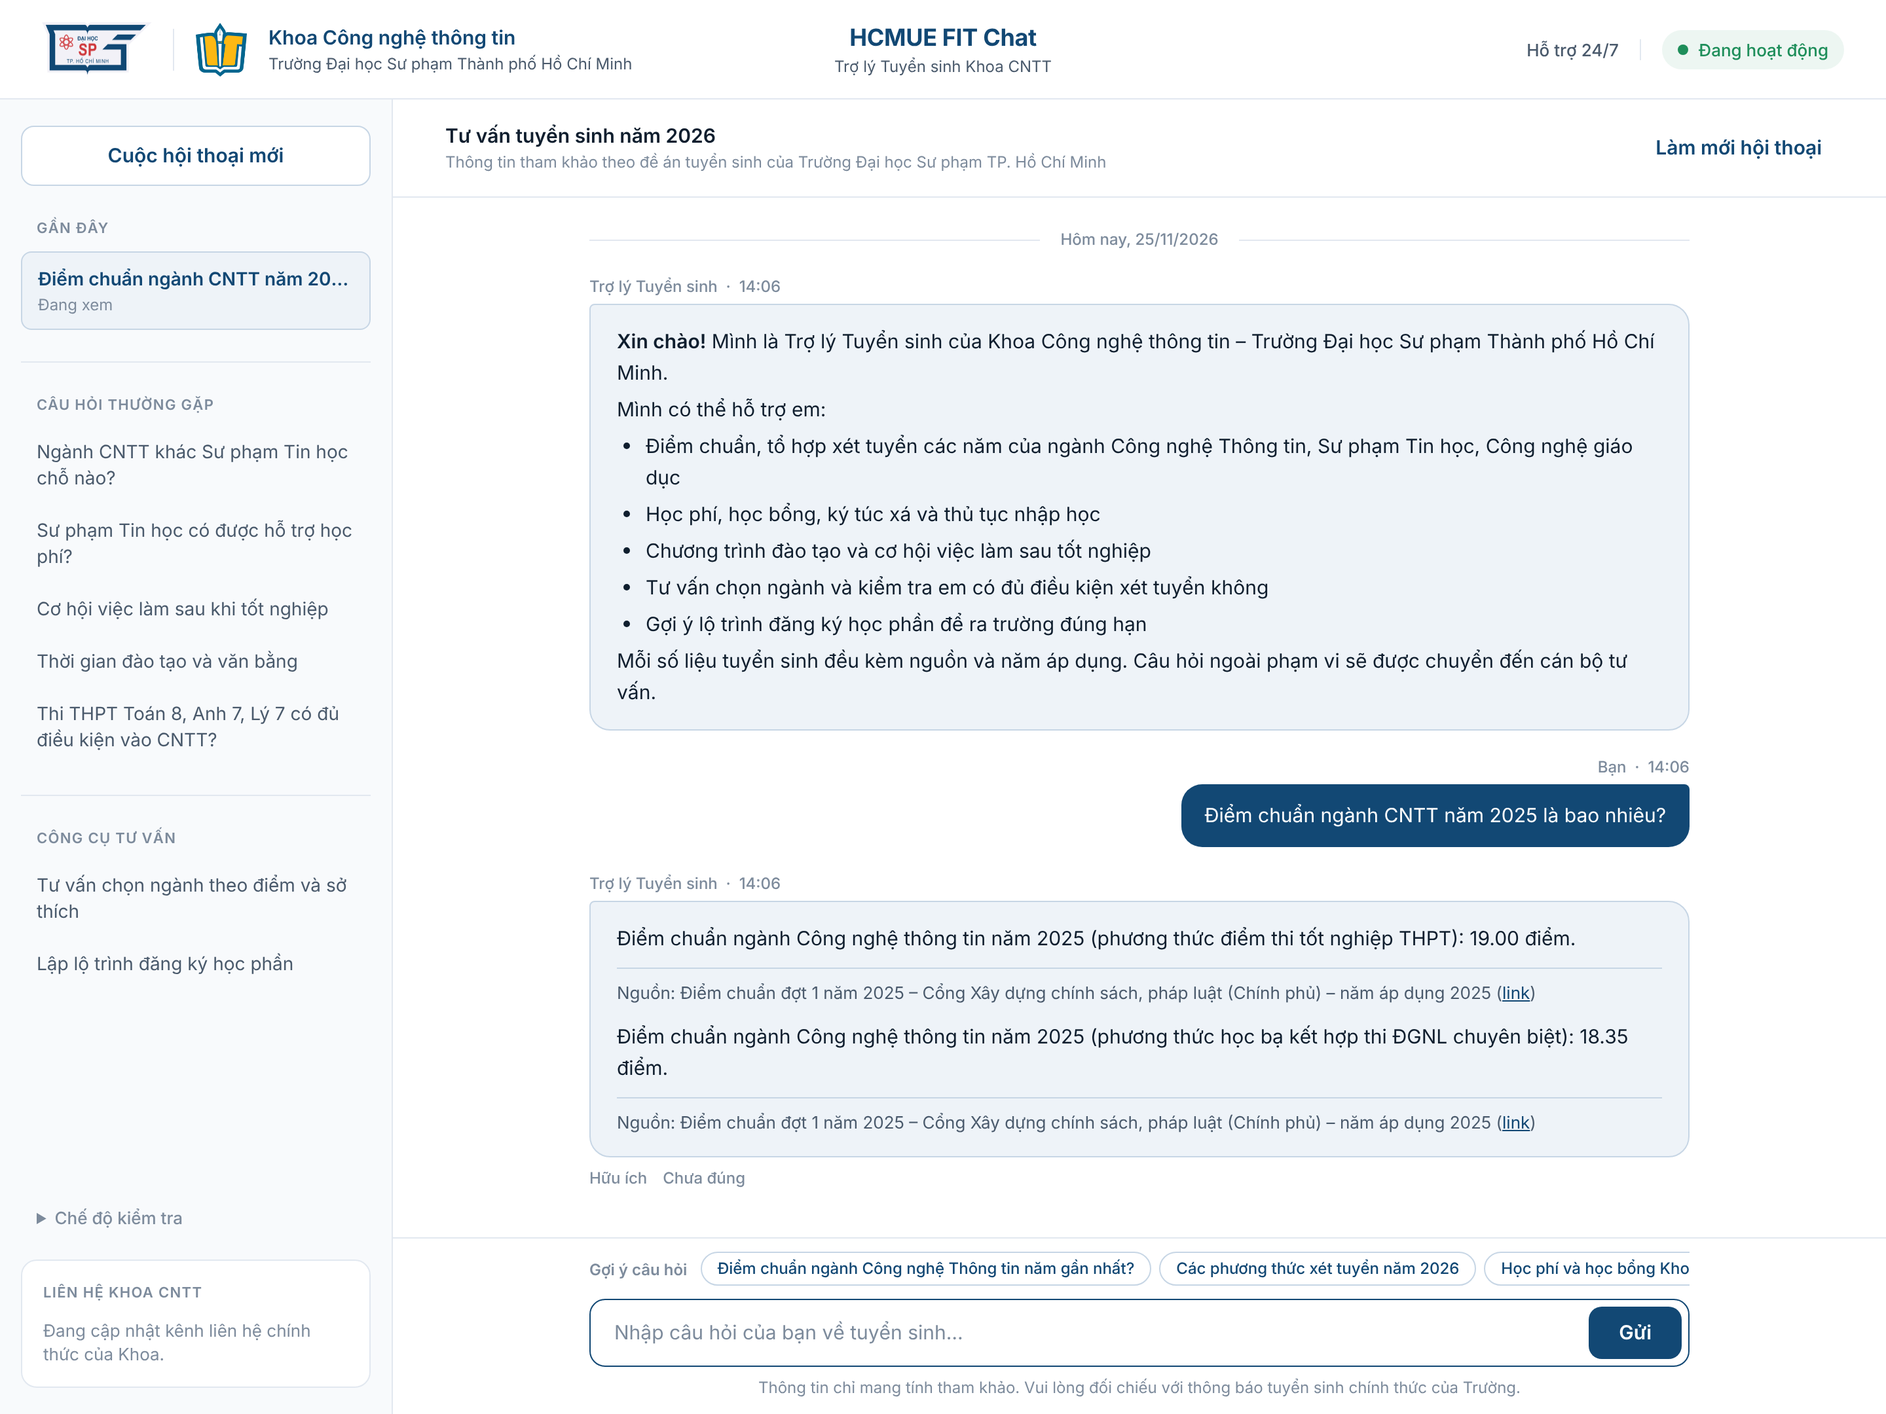
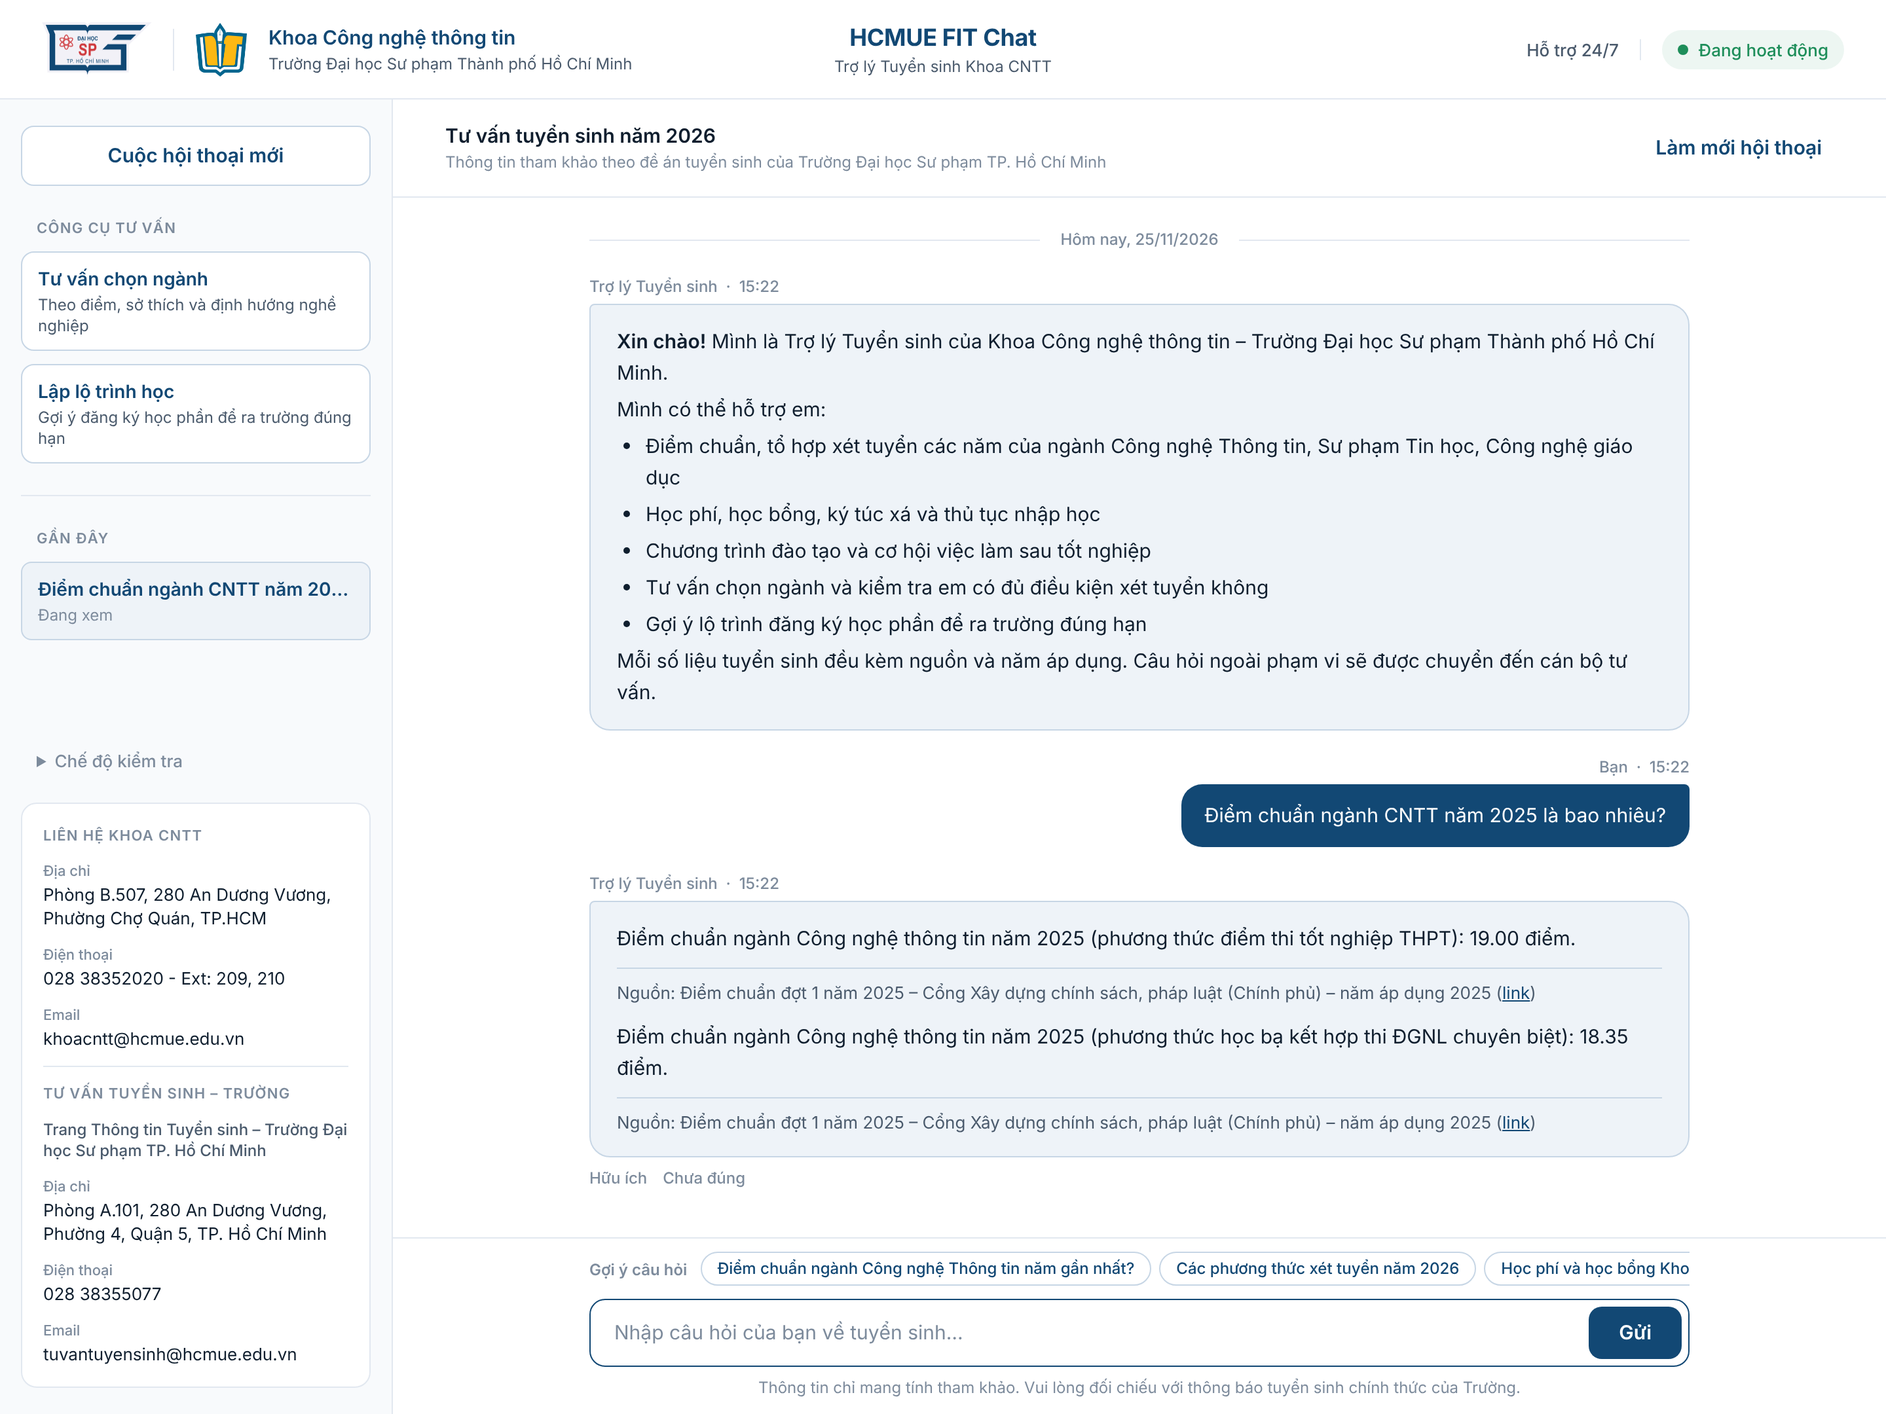
Thêm liên hệ Khoa CNTT và Tư vấn tuyển sinh của Trường, bỏ mục câu hỏi thường gặp, đưa công cụ tư vấn lên đầu thanh bên
Claude-Session: https://claude.ai/code/session_018JoVY2yuYEbWbmjCXAkQAX

diff --git a/templates/index.html b/templates/index.html
@@ -41,27 +41,24 @@
     <button class="btn btn-secondary btn-block" type="button" data-action="new">Cuộc hội thoại mới</button>
 
     <section class="side-section">
+      <p class="section-label">CÔNG CỤ TƯ VẤN</p>
+      <button class="tool-btn" type="button" data-dialog="dlg-tu-van">
+        <span class="tool-title">Tư vấn chọn ngành</span>
+        <span class="tool-sub">Theo điểm, sở thích và định hướng nghề nghiệp</span>
+      </button>
+      <button class="tool-btn" type="button" data-dialog="dlg-lo-trinh">
+        <span class="tool-title">Lập lộ trình học</span>
+        <span class="tool-sub">Gợi ý đăng ký học phần để ra trường đúng hạn</span>
+      </button>
+    </section>
+
+    <hr class="divider-h">
+
+    <section class="side-section">
       <p class="section-label">GẦN ĐÂY</p>
       <div id="recent" class="recent-list">
         <p class="empty-note">Chưa có cuộc hội thoại nào.</p>
       </div>
-    </section>
-
-    <hr class="divider-h">
-
-    <section class="side-section">
-      <p class="section-label">CÂU HỎI THƯỜNG GẶP</p>
-      {% for nhan, cau in faq %}
-      <button class="faq-item" type="button" data-query="{{ cau }}">{{ nhan }}</button>
-      {% endfor %}
-    </section>
-
-    <hr class="divider-h">
-
-    <section class="side-section">
-      <p class="section-label">CÔNG CỤ TƯ VẤN</p>
-      <button class="faq-item" type="button" data-dialog="dlg-tu-van">Tư vấn chọn ngành theo điểm và sở thích</button>
-      <button class="faq-item" type="button" data-dialog="dlg-lo-trinh">Lập lộ trình đăng ký học phần</button>
     </section>
 
     <div class="spacer"></div>
@@ -76,13 +73,18 @@
     </details>
 
     <div class="contact">
-      <p class="section-label tight">LIÊN HỆ KHOA CNTT</p>
-      {% for nhan, gia_tri in lien_he %}
+      {% for ten, dong in lien_he %}
+      {% if not loop.first %}<hr class="divider-h">{% endif %}
+      <p class="section-label tight">{{ 'LIÊN HỆ KHOA CNTT' if loop.first else 'TƯ VẤN TUYỂN SINH – TRƯỜNG' }}</p>
+      {% if not loop.first %}<p class="contact-org">{{ ten }}</p>{% endif %}
+      {% for nhan, gia_tri in dong %}
       <div class="contact-item">
         <p class="contact-label">{{ nhan }}</p>
         <p class="contact-value">{{ gia_tri }}</p>
       </div>
+      {% endfor %}
       {% else %}
+      <p class="section-label tight">LIÊN HỆ KHOA CNTT</p>
       <p class="contact-value muted">Đang cập nhật kênh liên hệ chính thức của Khoa.</p>
       {% endfor %}
     </div>
@@ -140,7 +142,7 @@
   <form method="dialog" class="dialog-form" id="form-tu-van">
     <div class="dialog-head">
       <p class="dialog-title">Tư vấn chọn ngành</p>
-      <p class="dialog-sub">Chức năng 2 – suy diễn tiến gợi ý ngành; chọn thêm một ngành để kiểm tra đủ điều kiện bằng suy diễn lùi.</p>
+      <p class="dialog-sub">Nhập điểm, sở thích và định hướng nghề nghiệp để nhận gợi ý ngành phù hợp; có thể chọn thêm một ngành để kiểm tra em có đủ điều kiện xét tuyển không.</p>
     </div>
     <fieldset class="field">
       <legend>Phương thức xét tuyển</legend>
@@ -200,7 +202,7 @@
   <form method="dialog" class="dialog-form" id="form-lo-trinh">
     <div class="dialog-head">
       <p class="dialog-title">Lập lộ trình đăng ký học phần</p>
-      <p class="dialog-sub">Chức năng 1 – hệ thống tự chọn thuật toán (A*, dự phòng quay lui – nhánh cận) để tìm lộ trình ít học kỳ nhất.</p>
+      <p class="dialog-sub">Chọn học kỳ sắp đăng ký và tình trạng từng học phần; hệ thống tìm lộ trình ít học kỳ nhất để hoàn thành chương trình.</p>
     </div>
     <div class="grid-2">
       <label class="mini">Học kỳ sắp đăng ký (1 = năm nhất)<input type="number" name="hoc_ky" min="1" max="16" value="1" required></label>

diff --git a/static/css/style.css b/static/css/style.css
@@ -99,11 +99,6 @@ button, input, select, textarea { font: inherit; color: inherit; }
 .conv-item .conv-time { font-size: 12px; line-height: 16px; color: var(--text-tertiary); }
 .conv-item.active { background: var(--primary-subtle); border-color: var(--primary-border); }
 .conv-item.active .conv-title { font-weight: 600; color: var(--primary); }
-.faq-item {
-  display: block; width: 100%; text-align: left; padding: 8px 12px; border-radius: 6px; border: 0; background: none;
-  font-size: 14px; line-height: 20px; color: var(--text-secondary); cursor: pointer;
-}
-.faq-item:hover { background: var(--primary-subtle); color: var(--primary); }
 .spacer { flex: 1 0 0; min-height: 0; }
 .check-mode { font-size: 13px; color: var(--text-secondary); padding: 0 12px; }
 .check-mode summary { cursor: pointer; font-weight: 500; color: var(--text-tertiary); }
@@ -296,3 +291,15 @@ fieldset.field { display: block; }
 fieldset.field legend { margin-bottom: 4px; }
 fieldset.field .choice { margin: 6px 18px 0 0; }
 .bubble th, .bubble td { min-width: 2.6em; }
+
+/* Công cụ tư vấn: nút rõ ràng ở đầu thanh bên */
+.tool-btn {
+  display: flex; flex-direction: column; gap: 2px; width: 100%; text-align: left; cursor: pointer;
+  padding: 10px 12px; border-radius: 10px; border: 1px solid var(--primary-border); background: var(--surface);
+}
+.tool-btn + .tool-btn { margin-top: 6px; }
+.tool-btn:hover { background: var(--primary-subtle); border-color: var(--primary); }
+.tool-title { font-weight: 600; font-size: 14px; line-height: 20px; color: var(--primary); }
+.tool-sub { font-size: 12px; line-height: 16px; color: var(--text-secondary); }
+.contact-org { font-size: 12px; line-height: 16px; color: var(--text-secondary); font-weight: 500; }
+.bubble ul + p { margin-top: 10px; }

diff --git a/app.py b/app.py
@@ -36,21 +36,13 @@ from src.web.markdown_lite import to_html  # noqa: E402
 
 ROOT = Path(__file__).resolve().parent
 
-# Câu gợi ý / câu hỏi thường gặp: chỉ giữ câu đã kiểm tra chatbot trả lời được (tests/test_web.py).
+# Câu hỏi gợi ý: chỉ giữ câu đã kiểm tra chatbot trả lời được (tests/test_web.py).
 GOI_Y = [
     "Điểm chuẩn ngành Công nghệ Thông tin năm gần nhất?",
     "Các phương thức xét tuyển năm 2026",
     "Học phí và học bổng Khoa CNTT",
     "Em nên chọn ngành nào của Khoa?",
     "Lập lộ trình học cho tân sinh viên",
-]
-CAU_HOI_THUONG_GAP = [
-    ("Ngành CNTT khác Sư phạm Tin học chỗ nào?", "CNTT khác Sư phạm Tin học chỗ nào?"),
-    ("Sư phạm Tin học có được hỗ trợ học phí?", "Sư phạm Tin học có được hỗ trợ học phí?"),
-    ("Cơ hội việc làm sau khi tốt nghiệp", "Cơ hội việc làm sau khi tốt nghiệp"),
-    ("Thời gian đào tạo và văn bằng", "Thời gian đào tạo và văn bằng"),
-    ("Thi THPT Toán 8, Anh 7, Lý 7 có đủ điều kiện vào CNTT?",
-     "Em thi THPT Toán 8, Anh 7, Lý 7, KV2 có đủ điều kiện vào CNTT không?"),
 ]
 
 MAX_HOI_THOAI = 30          # mỗi trình duyệt giữ tối đa 30 cuộc hội thoại (bộ nhớ của máy chủ)
@@ -159,14 +151,10 @@ def create_app(classifier=None, log_dir: Path = LOG_DIR) -> Flask:
 
     @app.get("/")
     def trang_chu():
-        lh = kb.meta.get("lien_he_tu_van", {})
-        lien_he = [(nhan, lh[k]) for k, nhan in (("dia_chi", "Địa chỉ"), ("email", "Email"),
-                                                 ("dien_thoai", "Điện thoại"), ("fanpage", "Fanpage"))
-                   if lh.get(k) and not str(lh[k]).startswith("<")]
         ds_hp = sorted(engine.courses.values(), key=lambda h: h.stt)
         return render_template(
             "index.html", nam=NAM, khoa=kb.meta.get("khoa", "Khoa Công nghệ Thông tin"),
-            truong=kb.meta.get("truong", ""), goi_y=GOI_Y, faq=CAU_HOI_THUONG_GAP, lien_he=lien_he,
+            truong=kb.meta.get("truong", ""), goi_y=GOI_Y, lien_he=kb.lien_he(),
             hom_nay=dt.date.today().strftime("%d/%m/%Y"), tau=tau_mac_dinh, ten_mo_hinh=clf.name,
             mon=[(m, TEN_MON[m]) for m in MON], mon_hb2=[(m, TEN_MON[m]) for m in MON_HB2],
             so_thich=[(k, TEN_SO_THICH[k]) for k in SO_THICH], dinh_huong=[(k, TEN_DINH_HUONG[k]) for k in DINH_HUONG],

diff --git a/tests/test_web.py b/tests/test_web.py
@@ -5,7 +5,7 @@ from pathlib import Path
 import pandas as pd
 import pytest
 
-from app import CAU_HOI_THUONG_GAP, GOI_Y, create_app
+from app import GOI_Y, create_app
 from src.nlu.classifier import KeywordClassifier, load_classifier
 from src.web.markdown_lite import to_html
 
@@ -28,10 +28,12 @@ def _chat(c, text, cid=None, client_id="test"):
 def test_trang_chu_theo_figma(client):
     html = client.get("/").get_data(as_text=True)
     for s in ["HCMUE FIT Chat", "Trợ lý Tuyển sinh Khoa CNTT", "Cuộc hội thoại mới", "GẦN ĐÂY",
-              "CÂU HỎI THƯỜNG GẶP", "LIÊN HỆ KHOA CNTT", "Gợi ý câu hỏi", "Làm mới hội thoại", "Gửi",
+              "CÔNG CỤ TƯ VẤN", "LIÊN HỆ KHOA CNTT", "khoacntt@hcmue.edu.vn",
+              "TƯ VẤN TUYỂN SINH – TRƯỜNG", "tuvantuyensinh@hcmue.edu.vn", "Gợi ý câu hỏi", "Làm mới hội thoại", "Gửi",
               "logo_hcmue.png", "logo_khoa_cntt.png"]:
         assert s in html
-    assert "<script>alert" not in html
+    assert "<script>alert" not in html and "CÂU HỎI THƯỜNG GẶP" not in html
+    assert html.index("CÔNG CỤ TƯ VẤN") < html.index("GẦN ĐÂY")      # công cụ tư vấn ở đầu thanh bên
 
 
 def test_chat_so_lieu_co_nguon_va_nam(client):
@@ -100,11 +102,11 @@ def test_trang_thai(client):
 
 @pytest.mark.skipif(not (ROOT / "models" / "intent_model.keras").exists(), reason="chưa có mô hình")
 def test_cau_goi_y_tren_giao_dien_deu_tra_loi_duoc(tmp_path):
-    """Mọi câu gợi ý / câu hỏi thường gặp hiển thị trên giao diện phải được trả lời bằng mô hình Keras."""
+    """Mọi câu hỏi gợi ý hiển thị trên giao diện phải được trả lời bằng mô hình Keras."""
     pytest.importorskip("tensorflow")
     pytest.importorskip("underthesea")
     c = create_app(load_classifier(backend="keras"), log_dir=tmp_path).test_client()
-    for cau in GOI_Y + [q for _, q in CAU_HOI_THUONG_GAP]:
+    for cau in GOI_Y:
         j = _chat(c, cau, client_id=cau)
         assert not j["reply"]["handoff"], cau
 

diff --git a/src/chatbot/kb.py b/src/chatbot/kb.py
@@ -49,13 +49,26 @@ class KnowledgeBase:
         res.facts = [f for group in latest.values() for f in group]
         return res
 
+    def lien_he(self) -> list[tuple[str, list[tuple[str, str]]]]:
+        """Các kênh liên hệ (Khoa, tuyển sinh của Trường): [(tên đơn vị, [(nhãn, giá trị), …]), …].
+
+        Bỏ qua giá trị còn để mẫu dạng "<...>". Dùng chung cho thanh bên web và câu chuyển cán bộ.
+        """
+        out = []
+        for khoa, mac_dinh in (("lien_he_tu_van", self.meta.get("khoa", "Khoa")),
+                               ("lien_he_tuyen_sinh", "Tư vấn tuyển sinh của Trường")):
+            c = self.meta.get(khoa, {})
+            dong = [(nhan, str(c[k])) for k, nhan in (("dia_chi", "Địa chỉ"), ("dien_thoai", "Điện thoại"),
+                                                      ("email", "Email"), ("fanpage", "Fanpage"))
+                    if c.get(k) and not str(c[k]).startswith("<")]
+            if dong:
+                out.append((c.get("ten") or mac_dinh, dong))
+        return out
+
     def contact_text(self) -> str:
-        """Kênh liên hệ thật của Khoa; bỏ qua giá trị còn để mẫu dạng "<...>" trong knowledge_base.json."""
-        c = self.meta.get("lien_he_tu_van", {})
-        dong = [f"- {nhan}: {c[k]}" for k, nhan in (("email", "Email"), ("dien_thoai", "Điện thoại"),
-                                                    ("fanpage", "Fanpage"))
-                if c.get(k) and not str(c[k]).startswith("<")]
-        return "\n".join(dong) or "- (Nhóm chưa cập nhật kênh liên hệ của Khoa trong data/knowledge_base.json)"
+        """Kênh liên hệ dạng markdown cho câu trả lời chuyển cán bộ."""
+        nhom = [f"**{ten}**\n" + "\n".join(f"- {nhan}: {gt}" for nhan, gt in dong) for ten, dong in self.lien_he()]
+        return "\n\n".join(nhom) or "- (Nhóm chưa cập nhật kênh liên hệ trong data/knowledge_base.json)"
 
 
 def cite(fact: dict) -> str:

diff --git a/tests/test_c3_c4.py b/tests/test_c3_c4.py
@@ -187,8 +187,15 @@ def test_so_sanh_hai_nganh_khong_mo_luong(tmp_path, kb):
     assert s.active_flow is None and "Sư phạm Tin học" in r.text and "Công nghệ thông tin" in r.text
 
 
-def test_lien_he_bo_qua_gia_tri_mau(kb):
-    assert "<" not in kb.contact_text()
+def test_lien_he_khoa_va_truong(kb):
+    t = kb.contact_text()
+    assert "<" not in t and "khoacntt@hcmue.edu.vn" in t and "tuvantuyensinh@hcmue.edu.vn" in t
+    assert [ten for ten, _ in kb.lien_he()][0] == "Khoa Công nghệ thông tin"
+
+
+def test_chuyen_can_bo_co_lien_he(engine):
+    r = engine.respond("hôm nay trời có mưa không", DialogueState())
+    assert r.handoff and "028 38352020" in r.text and "028 38355077" in r.text
 
 
 def test_module_status(kb):

diff --git a/src/chatbot/engine.py b/src/chatbot/engine.py
@@ -193,7 +193,7 @@ class ChatEngine:
                         code])
         msg = reason or "Câu hỏi này nằm ngoài phạm vi mình chắc chắn trả lời được."
         return BotReply(f"{msg} Mình đã **chuyển câu hỏi đến cán bộ tư vấn** của Khoa. "
-                        f"Em có thể liên hệ trực tiếp:\n{self.kb.contact_text()}",
+                        f"Em có thể liên hệ trực tiếp:\n\n{self.kb.contact_text()}",
                         intent="chuyen_can_bo", handoff=True)
 
     @staticmethod

diff --git a/docs/C4_CHATBOT.md b/docs/C4_CHATBOT.md
@@ -41,7 +41,7 @@ underthesea mà mô hình được huấn luyện với underthesea, `/api/trang
 | Vùng | Nội dung |
 |---|---|
 | Header | logo Trường + Khoa, "HCMUE FIT Chat", trạng thái "Đang hoạt động" |
-| Thanh bên | Cuộc hội thoại mới · GẦN ĐÂY (hội thoại của trình duyệt này) · CÂU HỎI THƯỜNG GẶP · CÔNG CỤ TƯ VẤN (biểu mẫu C2, C1) · Chế độ kiểm tra (ý định, độ tin cậy, top-3, thực thể, ai quyết định; chỉnh τ) · Liên hệ Khoa |
+| Thanh bên | Cuộc hội thoại mới · CÔNG CỤ TƯ VẤN (biểu mẫu tư vấn chọn ngành – C2, lập lộ trình học – C1) · GẦN ĐÂY (hội thoại của trình duyệt này) · Chế độ kiểm tra (ý định, độ tin cậy, top-3, thực thể, ai quyết định; chỉnh τ) · Liên hệ Khoa CNTT và Tư vấn tuyển sinh của Trường |
 | Vùng chat | tin nhắn bot (nền xanh nhạt) / người dùng (nền #124874), dòng **Nguồn … – năm áp dụng …** tách riêng dưới mỗi số liệu, nút Hữu ích / Chưa đúng |
 | Ô nhập | câu hỏi gợi ý (chỉ giữ câu đã kiểm thử trả lời được), Enter để gửi |
 | Điện thoại (≤ 900px) | header 2 hàng + nút Menu mở thanh bên, chip cuộn ngang |
@@ -81,8 +81,9 @@ Chế độ debug hiện **ý định, độ tin cậy, top-3, thực thể, ai 
   sung tập huấn luyện vòng sau.
 - `logs/feedback.csv`: nút Hữu ích / Chưa đúng dưới mỗi câu trả lời (thiết kế không dùng icon).
 - `logs/conversations.jsonl`: mọi lượt (ý định, độ tin cậy, top-3, nguồn ý định, thời gian).
-- Kênh liên hệ lấy từ `meta.lien_he_tu_van` trong `knowledge_base.json`; giá trị còn để mẫu `<…>` không
-  được hiển thị.
+- Kênh liên hệ lấy từ `meta.lien_he_tu_van` (Khoa CNTT – phòng B.507) và `meta.lien_he_tuyen_sinh` (Trang Thông
+  tin Tuyển sinh của Trường – phòng A.101) trong `knowledge_base.json`; hiển thị ở thanh bên và trong mọi câu
+  chuyển cán bộ. Giá trị còn để mẫu `<…>` không được hiển thị.
 
 ## 5. Đánh giá end-to-end (mục 7.9)
 
@@ -107,7 +108,8 @@ người dùng" trong báo cáo.
 
 ## 6. Việc nhóm cần làm trước khi nộp
 
-- [ ] `data/knowledge_base.json`: điền **kênh liên hệ thật** của Khoa (`meta.lien_he_tu_van`); thay số liệu
+- [x] Kênh liên hệ thật của Khoa và Trường trong `data/knowledge_base.json`.
+- [ ] `data/knowledge_base.json`: thay số liệu
   mẫu (học phí, học bổng, ký túc xá, CTĐT, việc làm, thủ tục) bằng nguồn chính thức + url + ngày truy cập
   rồi đặt `da_kiem_chung: true`; bổ sung học phí / việc làm / CTĐT ngành **Công nghệ giáo dục** (hiện chưa có
   → bot chuyển cán bộ với lý do `thieu_du_lieu`).
